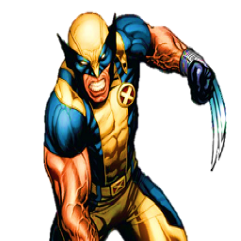
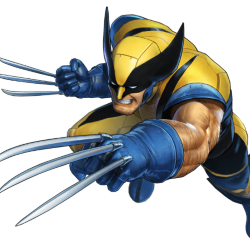
app-heroes

diff --git a/src/app/components/heroes/heroes.component.html b/src/app/components/heroes/heroes.component.html
@@ -7,13 +7,13 @@
   <div class="row row-cols-1 row-cols-md-4 row-cols-lg-4 g-4">
     <div class="col">
       <div class="card border border-info border-5 border-opacity-25">
-        <img src="assets/img/batman.png" class="card-img-top" alt="Batman">
+        <img src="assets/img/spiderman.png" class="card-img-top" alt="Spiderman">
         <div class="card-body">
           <h5 class="card-title">Card title</h5>
           <p class="card-text">This is a longer card with supporting text below as a natural lead-in to additional content.</p>
         </div>
-        <div class="card-footer">
-          <small class="text-muted">Last updated 3 mins ago</small>
+        <div class="d-grid gap-2">
+          <button type="button" class="btn btn-outline-dark">See more...</button>
         </div>
       </div>
       </div>
@@ -33,7 +33,7 @@
   
     <div class="col">
       <div class="card border border-info border-5 border-opacity-25">
-        <img src="assets/img/Wolverine.png" class="card-img-top" alt="Batman">
+        <img src="assets/img/Wolverine.png" class="card-img-top" alt="Wolverine">
         <div class="card-body">
           <h5 class="card-title">Card title</h5>
           <p class="card-text">This is a longer card with supporting text below as a natural lead-in to additional content.</p>
@@ -46,7 +46,7 @@
   
     <div class="col">
       <div class="card border border-info border-5 border-opacity-25">
-        <img src="assets/img/batman.png" class="card-img-top" alt="Batman">
+        <img src="assets/img/aquaman.png" class="card-img-top" alt="Aquaman">
         <div class="card-body">
           <h5 class="card-title">Card title</h5>
           <p class="card-text">This is a longer card with supporting text below as a natural lead-in to additional content.</p>
@@ -59,7 +59,46 @@
   
     <div class="col">
       <div class="card border border-info border-5 border-opacity-25">
-        <img src="assets/img/batman.png" class="card-img-top" alt="Batman">
+        <img src="assets/img/hulk.png" class="card-img-top" alt="Hulk">
+        <div class="card-body">
+          <h5 class="card-title">Card title</h5>
+          <p class="card-text">This is a longer card with supporting text below as a natural lead-in to additional content.</p>
+        </div>
+        <div class="card-footer">
+          <small class="text-muted">Last updated 3 mins ago</small>
+        </div>
+      </div>
+  </div>
+  
+    <div class="col">
+      <div class="card border border-info border-5 border-opacity-25">
+        <img src="assets/img/linternaverde.png" class="card-img-top" alt="Green-Lantern">
+        <div class="card-body">
+          <h5 class="card-title">Card title</h5>
+          <p class="card-text">This is a longer card with supporting text below as a natural lead-in to additional content.</p>
+        </div>
+        <div class="card-footer">
+          <small class="text-muted">Last updated 3 mins ago</small>
+        </div>
+      </div>
+  </div>
+  
+    <div class="col">
+      <div class="card border border-info border-5 border-opacity-25">
+        <img src="assets/img/derevil.png" class="card-img-top" alt="Derevil">
+        <div class="card-body">
+          <h5 class="card-title">Card title</h5>
+          <p class="card-text">This is a longer card with supporting text below as a natural lead-in to additional content.</p>
+        </div>
+        <div class="card-footer">
+          <small class="text-muted">Last updated 3 mins ago</small>
+        </div>
+      </div>
+  </div>
+  
+    <div class="col">
+      <div class="card border border-info border-5 border-opacity-25">
+        <img src="assets/img/thor.png" class="card-img-top" alt="Thor">
         <div class="card-body">
           <h5 class="card-title">Card title</h5>
           <p class="card-text">This is a longer card with supporting text below as a natural lead-in to additional content.</p>
